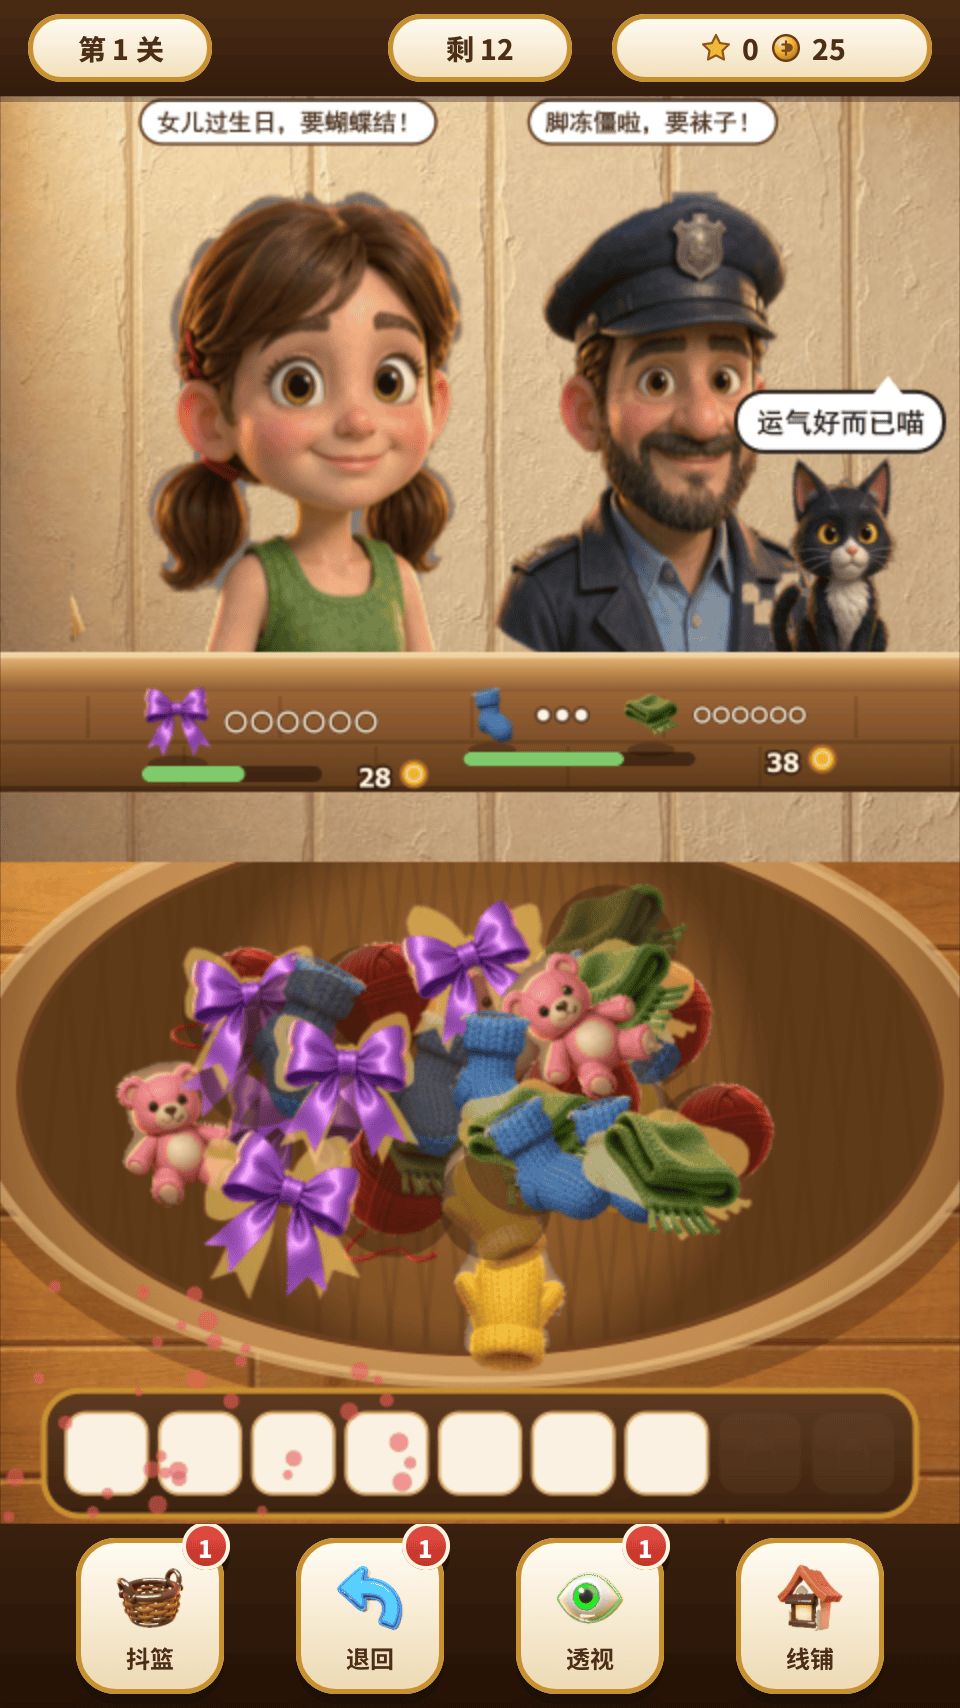
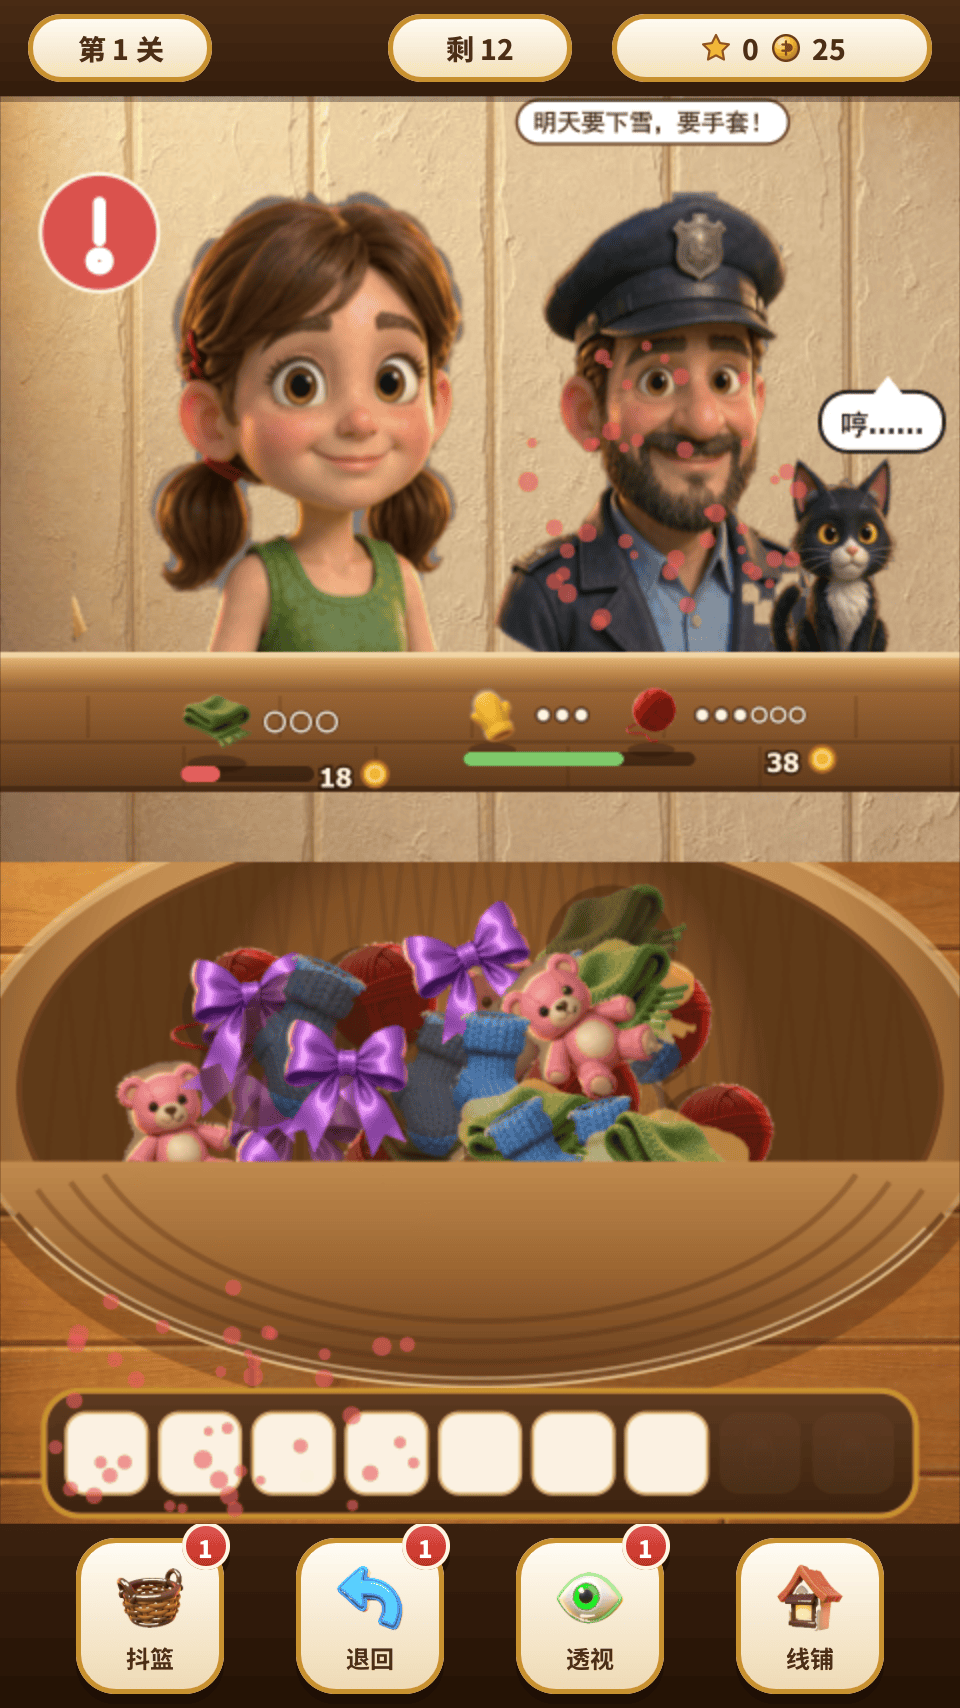
容器重设计：放弃巨盆椭圆，改为"内衬+前挡板"结构
- drawScene 只画紧贴物件堆的暗色内腔 + 细后唇（大部分被物件盖住）
- drawBasketFront 改为全宽木箱前板（顶缘唇边+横板缝），盖住堆底
- 容器不再有大面积可空的盆腹；render.js 支持关卡/手数参数自检

diff --git a/index.html b/index.html
@@ -352,38 +352,27 @@ function drawScene(now){
     ctx.strokeStyle="rgba(90,50,20,.18)"; ctx.lineWidth=2;
     for(let i=0;i<6;i++){ const y=B.y+B.h*.4+i*28; ctx.beginPath(); ctx.moveTo(0,y); ctx.bezierCurveTo(W*.3,y+6,W*.7,y-6,W,y); ctx.stroke(); }
   }
-  // 竹筐（内凹 + 编织 + 前沿高光）—— 椭圆上下贴满筐区：顶接柜台、底接托盘，无空档
-  const cx=B.x+B.w/2, cy=B.y+B.h*.5, rx=B.w*.54, ry=B.h*.5;
-  ctx.fillStyle="rgba(40,20,8,.28)"; ctx.beginPath(); ctx.ellipse(cx,cy+10,rx+8,ry+8,0,0,7); ctx.fill();
-  const bg=ctx.createRadialGradient(cx,cy-rx*.2,rx*.15, cx,cy,rx);
-  bg.addColorStop(0,"#e0b070"); bg.addColorStop(.7,"#c08a4e"); bg.addColorStop(1,"#8a5a2c");
-  ctx.fillStyle=bg; ctx.beginPath(); ctx.ellipse(cx,cy,rx,ry,0,0,7); ctx.fill();
-  const ig=ctx.createRadialGradient(cx,cy,ry*.2, cx,cy,ry);
-  ig.addColorStop(0,"#9a652f"); ig.addColorStop(.75,"#835225"); ig.addColorStop(1,"#5f3a18");
-  ctx.save(); ctx.beginPath(); ctx.ellipse(cx,cy,rx*.9,ry*.9,0,0,7); ctx.clip();
-  ctx.fillStyle=ig; ctx.fillRect(cx-rx,cy-ry,rx*2,ry*2);
-  ctx.strokeStyle="rgba(90,50,20,.22)"; ctx.lineWidth=3;
-  for(let i=-12;i<=12;i++){ ctx.beginPath(); ctx.moveTo(cx+i*18,cy-ry); ctx.lineTo(cx+i*18+30,cy+ry); ctx.stroke(); ctx.beginPath(); ctx.moveTo(cx+i*18,cy-ry); ctx.lineTo(cx+i*18-30,cy+ry); ctx.stroke(); }
-  ctx.restore();
-  ctx.strokeStyle="rgba(255,220,160,.45)"; ctx.lineWidth=6; ctx.beginPath(); ctx.ellipse(cx,cy,rx,ry,0,0,7); ctx.stroke();
-  ctx.strokeStyle="#6e4020"; ctx.lineWidth=3; ctx.beginPath(); ctx.ellipse(cx,cy,rx*.9,ry*.9,0,0,7); ctx.stroke();
+  // 筐内衬：紧贴物件堆的暗色内腔（大部分被物件盖住，只在缝隙里透出深度）
+  const cx=B.x+B.w/2, icy=B.y+B.h*.42, irx=B.w*.52, iry=B.h*.44;
+  const ig=ctx.createRadialGradient(cx,icy-iry*.3,irx*.2, cx,icy,irx);
+  ig.addColorStop(0,"#7a5228"); ig.addColorStop(.7,"#5a3a1c"); ig.addColorStop(1,"#3c2410");
+  ctx.fillStyle=ig; ctx.beginPath(); ctx.ellipse(cx,icy,irx,iry,0,0,7); ctx.fill();
+  ctx.strokeStyle="rgba(230,190,130,.5)"; ctx.lineWidth=5;   // 筐口后唇（细）
+  ctx.beginPath(); ctx.ellipse(cx,icy,irx,iry,0,Math.PI*1.05,Math.PI*1.95); ctx.stroke();
 }
-/* 前筐沿：画在物件之后，把堆底物件"收进"筐里 —— 筐是容器而不是垫在底下的盘子 */
+/* 前挡板：画在物件之后 —— 容器只露"后唇 + 前板"，没有可空的盆腹 */
 function drawBasketFront(){
-  const B=BASKET, cx=B.x+B.w/2, cy=B.y+B.h*.5, rx=B.w*.54, ry=B.h*.5;
-  const fy = cy + ry*0.30;                                  // 前沿只盖住底部空弧，物件主体留在筐口
-  ctx.save();
-  ctx.beginPath(); ctx.ellipse(cx,cy,rx,ry,0,0,7); ctx.clip();
-  const g = ctx.createLinearGradient(0,fy-8,0,cy+ry);
-  g.addColorStop(0,"#c08a4e"); g.addColorStop(.5,"#9a6430"); g.addColorStop(1,"#663c1c");
-  ctx.fillStyle=g; ctx.fillRect(cx-rx-4, fy-8, rx*2+8, ry+8);
-  ctx.strokeStyle="rgba(80,45,18,.35)"; ctx.lineWidth=3;
-  for(let k=1;k<=3;k++){ ctx.beginPath(); ctx.ellipse(cx,cy,rx*(1-k*.07),ry*(1-k*.07),0,Math.PI*.12,Math.PI*.88); ctx.stroke(); }
-  ctx.restore();
-  ctx.strokeStyle="rgba(255,225,170,.55)"; ctx.lineWidth=6;  // 前唇高光
-  ctx.beginPath(); ctx.ellipse(cx,cy,rx,ry,0,Math.PI*.16,Math.PI*.84); ctx.stroke();
-  ctx.strokeStyle="rgba(105,60,28,.85)"; ctx.lineWidth=3;
-  ctx.beginPath(); ctx.ellipse(cx,cy,rx,ry,0,Math.PI*.14,Math.PI*.86); ctx.stroke();
+  const B=BASKET;
+  const fy = B.y + B.h*0.66;                                // 前板顶缘（盖住堆底）
+  const g=ctx.createLinearGradient(0,fy,0,B.y+B.h);
+  g.addColorStop(0,"#a8713c"); g.addColorStop(1,"#5e3a1c");
+  ctx.fillStyle=g; ctx.fillRect(0,fy,W,B.y+B.h-fy+6);
+  const py = fy+(B.y+B.h-fy)*.45;                            // 横板缝
+  ctx.strokeStyle="rgba(50,28,10,.28)"; ctx.lineWidth=2;
+  ctx.beginPath(); ctx.moveTo(0,py); ctx.lineTo(W,py); ctx.stroke();
+  ctx.fillStyle="#c08a4e"; ctx.fillRect(0,fy-7,W,14);        // 顶缘唇边
+  ctx.fillStyle="rgba(255,225,170,.5)"; ctx.fillRect(0,fy-7,W,3);
+  ctx.fillStyle="rgba(40,22,8,.35)"; ctx.fillRect(0,fy+6,W,2);
 }
 function drawCat(now){
   // 黑猫蹲在柜台右侧（贴图立绘，底部沉入台面；回退矢量猫）

diff --git a/src/game_a.js b/src/game_a.js
@@ -146,38 +146,27 @@ function drawScene(now){
     ctx.strokeStyle="rgba(90,50,20,.18)"; ctx.lineWidth=2;
     for(let i=0;i<6;i++){ const y=B.y+B.h*.4+i*28; ctx.beginPath(); ctx.moveTo(0,y); ctx.bezierCurveTo(W*.3,y+6,W*.7,y-6,W,y); ctx.stroke(); }
   }
-  // 竹筐（内凹 + 编织 + 前沿高光）—— 椭圆上下贴满筐区：顶接柜台、底接托盘，无空档
-  const cx=B.x+B.w/2, cy=B.y+B.h*.5, rx=B.w*.54, ry=B.h*.5;
-  ctx.fillStyle="rgba(40,20,8,.28)"; ctx.beginPath(); ctx.ellipse(cx,cy+10,rx+8,ry+8,0,0,7); ctx.fill();
-  const bg=ctx.createRadialGradient(cx,cy-rx*.2,rx*.15, cx,cy,rx);
-  bg.addColorStop(0,"#e0b070"); bg.addColorStop(.7,"#c08a4e"); bg.addColorStop(1,"#8a5a2c");
-  ctx.fillStyle=bg; ctx.beginPath(); ctx.ellipse(cx,cy,rx,ry,0,0,7); ctx.fill();
-  const ig=ctx.createRadialGradient(cx,cy,ry*.2, cx,cy,ry);
-  ig.addColorStop(0,"#9a652f"); ig.addColorStop(.75,"#835225"); ig.addColorStop(1,"#5f3a18");
-  ctx.save(); ctx.beginPath(); ctx.ellipse(cx,cy,rx*.9,ry*.9,0,0,7); ctx.clip();
-  ctx.fillStyle=ig; ctx.fillRect(cx-rx,cy-ry,rx*2,ry*2);
-  ctx.strokeStyle="rgba(90,50,20,.22)"; ctx.lineWidth=3;
-  for(let i=-12;i<=12;i++){ ctx.beginPath(); ctx.moveTo(cx+i*18,cy-ry); ctx.lineTo(cx+i*18+30,cy+ry); ctx.stroke(); ctx.beginPath(); ctx.moveTo(cx+i*18,cy-ry); ctx.lineTo(cx+i*18-30,cy+ry); ctx.stroke(); }
-  ctx.restore();
-  ctx.strokeStyle="rgba(255,220,160,.45)"; ctx.lineWidth=6; ctx.beginPath(); ctx.ellipse(cx,cy,rx,ry,0,0,7); ctx.stroke();
-  ctx.strokeStyle="#6e4020"; ctx.lineWidth=3; ctx.beginPath(); ctx.ellipse(cx,cy,rx*.9,ry*.9,0,0,7); ctx.stroke();
+  // 筐内衬：紧贴物件堆的暗色内腔（大部分被物件盖住，只在缝隙里透出深度）
+  const cx=B.x+B.w/2, icy=B.y+B.h*.42, irx=B.w*.52, iry=B.h*.44;
+  const ig=ctx.createRadialGradient(cx,icy-iry*.3,irx*.2, cx,icy,irx);
+  ig.addColorStop(0,"#7a5228"); ig.addColorStop(.7,"#5a3a1c"); ig.addColorStop(1,"#3c2410");
+  ctx.fillStyle=ig; ctx.beginPath(); ctx.ellipse(cx,icy,irx,iry,0,0,7); ctx.fill();
+  ctx.strokeStyle="rgba(230,190,130,.5)"; ctx.lineWidth=5;   // 筐口后唇（细）
+  ctx.beginPath(); ctx.ellipse(cx,icy,irx,iry,0,Math.PI*1.05,Math.PI*1.95); ctx.stroke();
 }
-/* 前筐沿：画在物件之后，把堆底物件"收进"筐里 —— 筐是容器而不是垫在底下的盘子 */
+/* 前挡板：画在物件之后 —— 容器只露"后唇 + 前板"，没有可空的盆腹 */
 function drawBasketFront(){
-  const B=BASKET, cx=B.x+B.w/2, cy=B.y+B.h*.5, rx=B.w*.54, ry=B.h*.5;
-  const fy = cy + ry*0.30;                                  // 前沿只盖住底部空弧，物件主体留在筐口
-  ctx.save();
-  ctx.beginPath(); ctx.ellipse(cx,cy,rx,ry,0,0,7); ctx.clip();
-  const g = ctx.createLinearGradient(0,fy-8,0,cy+ry);
-  g.addColorStop(0,"#c08a4e"); g.addColorStop(.5,"#9a6430"); g.addColorStop(1,"#663c1c");
-  ctx.fillStyle=g; ctx.fillRect(cx-rx-4, fy-8, rx*2+8, ry+8);
-  ctx.strokeStyle="rgba(80,45,18,.35)"; ctx.lineWidth=3;
-  for(let k=1;k<=3;k++){ ctx.beginPath(); ctx.ellipse(cx,cy,rx*(1-k*.07),ry*(1-k*.07),0,Math.PI*.12,Math.PI*.88); ctx.stroke(); }
-  ctx.restore();
-  ctx.strokeStyle="rgba(255,225,170,.55)"; ctx.lineWidth=6;  // 前唇高光
-  ctx.beginPath(); ctx.ellipse(cx,cy,rx,ry,0,Math.PI*.16,Math.PI*.84); ctx.stroke();
-  ctx.strokeStyle="rgba(105,60,28,.85)"; ctx.lineWidth=3;
-  ctx.beginPath(); ctx.ellipse(cx,cy,rx,ry,0,Math.PI*.14,Math.PI*.86); ctx.stroke();
+  const B=BASKET;
+  const fy = B.y + B.h*0.66;                                // 前板顶缘（盖住堆底）
+  const g=ctx.createLinearGradient(0,fy,0,B.y+B.h);
+  g.addColorStop(0,"#a8713c"); g.addColorStop(1,"#5e3a1c");
+  ctx.fillStyle=g; ctx.fillRect(0,fy,W,B.y+B.h-fy+6);
+  const py = fy+(B.y+B.h-fy)*.45;                            // 横板缝
+  ctx.strokeStyle="rgba(50,28,10,.28)"; ctx.lineWidth=2;
+  ctx.beginPath(); ctx.moveTo(0,py); ctx.lineTo(W,py); ctx.stroke();
+  ctx.fillStyle="#c08a4e"; ctx.fillRect(0,fy-7,W,14);        // 顶缘唇边
+  ctx.fillStyle="rgba(255,225,170,.5)"; ctx.fillRect(0,fy-7,W,3);
+  ctx.fillStyle="rgba(40,22,8,.35)"; ctx.fillRect(0,fy+6,W,2);
 }
 function drawCat(now){
   // 黑猫蹲在柜台右侧（贴图立绘，底部沉入台面；回退矢量猫）
